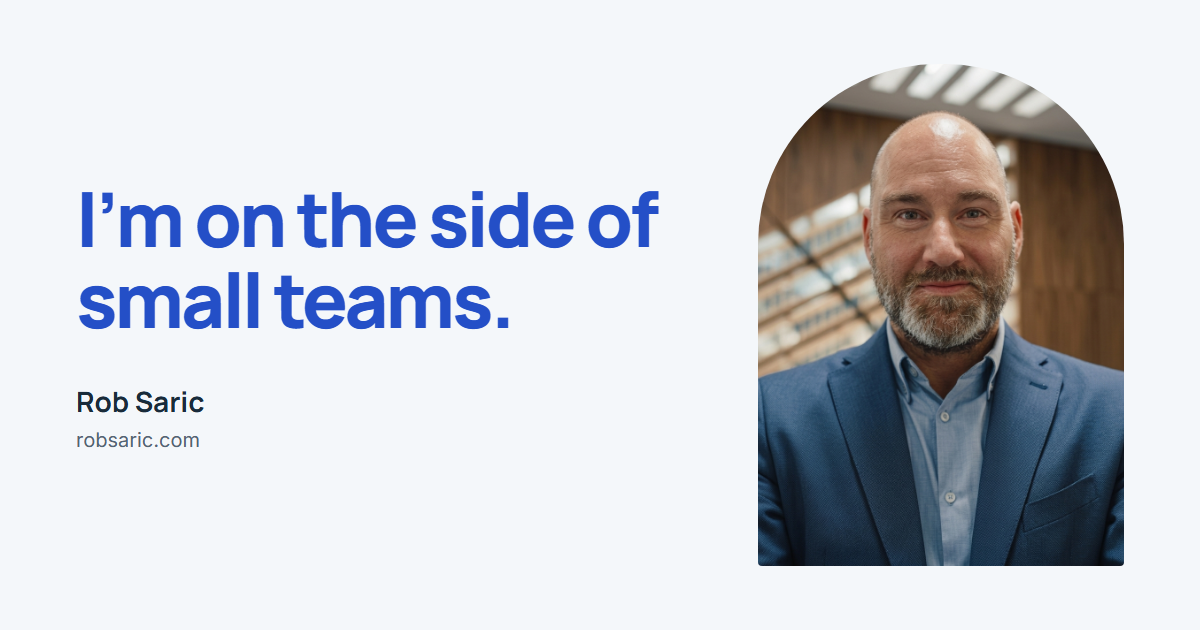
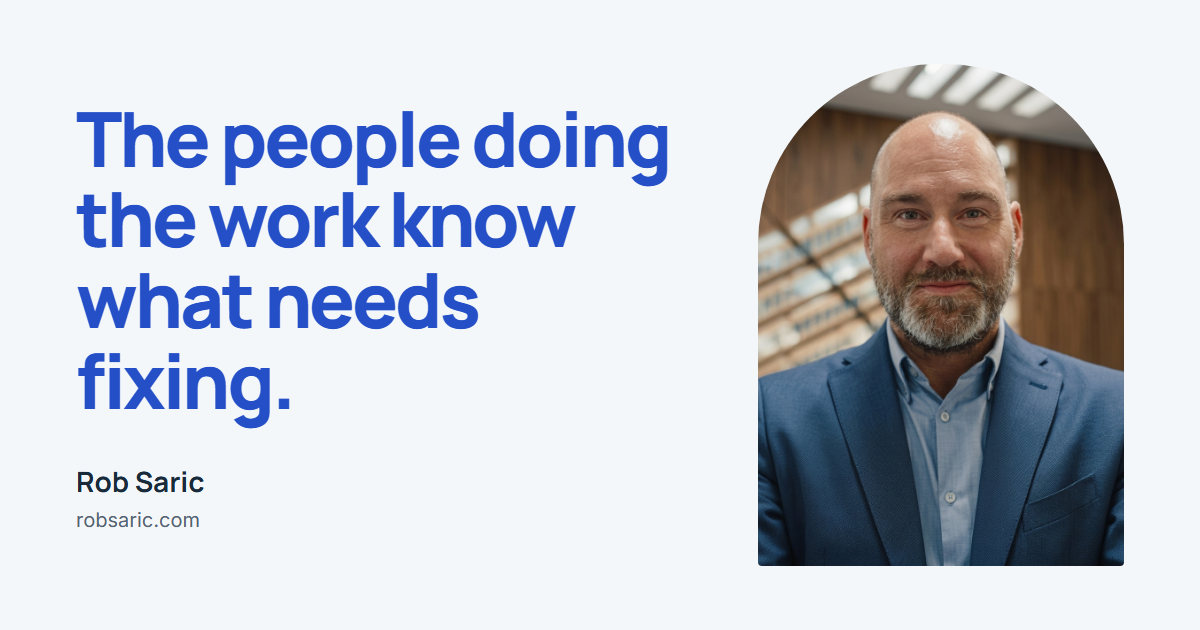
Refine personal-site opening, reading paths, and motion

diff --git a/src/data/editorial.ts b/src/data/editorial.ts
@@ -1,12 +1,11 @@
 /** Approved personal positioning. Article bodies remain in their content collections. */
 export const EDITORIAL = {
   hero: {
-    heading: "I’m on the side of",
-    emphasis: 'small teams.',
-    lead: 'The people doing the work usually know what needs fixing. I build tools that help them do something about it.',
-    intro: 'I’m Rob Saric, a founder in Ottawa. I write about building companies, designing useful tools, and the parts of life we shouldn’t hand over to a screen.',
+    heading: 'The people',
+    emphasis: 'doing the work',
+    ending: 'know what needs fixing.',
+    lead: 'Small teams need tools that help them act on what they know. That’s what I build. But useful technology should also leave room for life, so I write about both: making better tools and knowing when to close the laptop.',
     portraitAlt: 'Rob Saric in a blue blazer',
-    caption: 'Rob Saric · Ottawa, Canada',
     read: 'Read my writing',
     follow: 'Find me on LinkedIn',
   },
@@ -16,8 +15,7 @@ export const EDITORIAL = {
     pageTitle: 'Writing',
     pageHeading: 'Thinking out loud.',
     pageIntro: 'Building companies has given me plenty to write about. So has being a parent, paying attention to design, and wondering what all this technology is doing to us.',
-    latest: 'Recent field notes',
-    latestIntro: 'Small-team tools, attention, and the things I’m learning while building. Each piece starts with a question I care about.',
+    latest: 'Latest writing',
     earlier: 'Earlier writing',
     earlierIntro: 'A few pieces from the archive. Kept as written, with their original dates. I don’t expect every opinion to age perfectly.',
     all: 'All writing',
@@ -96,9 +94,9 @@ export const EDITORIAL = {
     newsletterBody: 'Leave your email for new writing from me.',
   },
   article: {
-    heading: 'More to think about.',
-    followHeading: 'Keep thinking with me.',
-    followBody: 'I share what I’m building and learning on LinkedIn. I’d like to hear what you’re seeing, too.',
+    heading: 'Read next',
+    followHeading: 'More on small teams and useful technology.',
+    followBody: 'I share new writing and what I’m learning as I build on LinkedIn.',
     authorDetail: 'Founder, dad, champion of small teams.',
   },
   contact: {
@@ -119,3 +117,37 @@ export const EARLIER_WRITING = [
   { id: 'treat-contractors-well', summary: 'What client projects taught me about trust and treating contractors as part of the team.' },
   { id: 'great-systems-need-to-create-flow', summary: 'A design question I keep coming back to: how do people find their rhythm in a system?' },
 ] as const;
+
+// Ordered editorial choices. Later choices are used only when an earlier one
+// is unavailable in this build, including when the chosen essay is a draft.
+export const NEXT_READS: Record<string, readonly { href: string; reason: string }[]> = {
+  '/field-notes/2026-10-18-small-teams-deserve-their-time-back/': [
+    { href: '/field-notes/2026-10-18-building-with-ai-and-life-beyond-the-feed/', reason: 'Why giving people time back matters beyond the workday.' },
+    { href: '/archive/treat-contractors-well/', reason: 'Clear handoffs start with how we treat the people doing the work.' },
+  ],
+  '/field-notes/2026-10-18-building-with-ai-and-life-beyond-the-feed/': [
+    { href: '/field-notes/2026-10-18-small-teams-deserve-their-time-back/', reason: 'The same question at work: does the tool give a team its time back?' },
+    { href: '/archive/great-systems-need-to-create-flow/', reason: 'An earlier look at designing for flow, and what makes an experience worth having.' },
+  ],
+  '/field-notes/2026-08-18-unbooked-at-the-desk/': [
+    { href: '/field-notes/2026-08-19-i-took-my-own-number-down/', reason: 'How I decide which numbers belong in public.' },
+  ],
+  '/field-notes/2026-08-19-i-took-my-own-number-down/': [
+    { href: '/field-notes/2026-08-19-i-only-checked-the-widths-i-designed-for/', reason: 'What a number leaves out matters as much as what it shows.' },
+  ],
+  '/field-notes/2026-08-19-i-only-checked-the-widths-i-designed-for/': [
+    { href: '/field-notes/2026-08-18-unbooked-at-the-desk/', reason: 'A concrete example of the work a clean report can miss.' },
+  ],
+  '/archive/building-a-startup-requires-self-awareness/': [
+    { href: '/field-notes/2026-10-18-small-teams-deserve-their-time-back/', reason: 'What I want to build next, and the test it has to pass.' },
+    { href: '/archive/treat-contractors-well/', reason: 'How the way you work with others shapes what you build.' },
+  ],
+  '/archive/treat-contractors-well/': [
+    { href: '/field-notes/2026-10-18-small-teams-deserve-their-time-back/', reason: 'Taking everyday team problems seriously, starting with the handoff.' },
+    { href: '/archive/great-systems-need-to-create-flow/', reason: 'Designing systems around the people who use them.' },
+  ],
+  '/archive/great-systems-need-to-create-flow/': [
+    { href: '/field-notes/2026-10-18-building-with-ai-and-life-beyond-the-feed/', reason: 'A question I’m asking now: when should a useful product let us leave?' },
+    { href: '/archive/building-a-startup-requires-self-awareness/', reason: 'Looking more closely at our own limits as builders.' },
+  ],
+};

diff --git a/src/lib/editorial.ts b/src/lib/editorial.ts
@@ -1,5 +1,5 @@
 import { getCollection } from 'astro:content';
-import { EARLIER_WRITING } from '../data/editorial';
+import { EARLIER_WRITING, NEXT_READS } from '../data/editorial';
 import { getPublishedNotes, noteHref } from './notes';
 
 export interface ReadingItem {
@@ -21,4 +21,17 @@ export async function getRecentWriting(): Promise<ReadingItem[]> {
     title: entry.data.title, summary: entry.data.summary,
     href: noteHref(entry), date: entry.data.date, earlier: false,
   }));
+}
+
+export async function getNextRead(pathname: string): Promise<ReadingItem | undefined> {
+  const choices = NEXT_READS[pathname];
+  if (!choices) return;
+
+  // Resolve against the same visible collections as the index, so curated
+  // links never expose an unpublished essay in an ordinary production build.
+  const available = [...await getRecentWriting(), ...await getEarlierWriting()];
+  for (const choice of choices) {
+    const item = available.find(entry => entry.href === choice.href && entry.href !== pathname);
+    if (item) return { ...item, summary: choice.reason };
+  }
 }

diff --git a/src/styles/global.css b/src/styles/global.css
@@ -10,7 +10,7 @@ p { text-wrap: pretty; }
 .text-link { display: inline-flex; align-items: center; gap: 12px; min-height: 44px; font-weight: 600; text-decoration: none; }
 .text-link:hover { text-decoration: underline; text-underline-offset: 5px; }
 .action { display: inline-flex; justify-content: center; align-items: center; gap: 14px; min-height: 52px; padding: 14px 23px; border: 1px solid var(--blue); border-radius: 6px; background: var(--blue); color: var(--white); text-decoration: none; font-size: 15px; font-weight: 600; transition: background 180ms; }
-.action:hover { color: var(--white); background: var(--blue-deep); }
+.action:hover, .action:focus-visible { color: var(--white); background: var(--blue-deep); }
 .action--outline { color: var(--blue); background: transparent; }
 .action--outline:hover { color: var(--blue); background: var(--sky); }
 .section-title { margin: 0; font-size: var(--text-h2); }

diff --git a/src/data/site.ts b/src/data/site.ts
@@ -5,7 +5,7 @@
  */
 export const SITE = {
   name: 'Rob Saric',
-  title: 'Rob Saric · On the side of small teams',
+  title: 'Rob Saric · For the people doing the work',
   description:
     'Rob Saric on building useful tools for small teams, starting companies, and making room for life beyond the screen. Founder and dad in Ottawa.',
   url: 'https://robsaric.com',

diff --git a/DESIGN.md b/DESIGN.md
@@ -168,7 +168,7 @@ The functional `status-critical-text` color is reserved for the conditional news
 Both families are self-hosted through Astro's font build. Manrope supplies compact, geometric headings; Inter keeps paragraphs, controls, and dates quiet. The scale is role-based and fluid rather than a single mathematical ratio.
 
 ### Hierarchy
-- **Display:** the frontmatter's largest role is the home statement. Its short measure (12ch on desktop) creates an emphatic, readable composition; the blue emphasis occupies its own line.
+- **Display:** the longer home statement uses `clamp(3rem, 5.2vw, 4.5rem)` within an 18ch measure and a 1.08 line height. Mobile uses `clamp(2.5rem, 9.8vw, 4.5rem)`. The blue phrase stays inline so the sentence wraps naturally. One lead paragraph supports it; there is no separate biography tier or portrait caption.
 - **Headline:** recurring section headings use the fluid headline role. Balancing is applied to headings, with reading-section headings allowed to wrap naturally.
 - **Title:** writing-list titles use the title role; compact entries use a slightly smaller size (24px), then (23px) on mobile.
 - **Article title:** the separate article-title role fits long titles without forcing the home's short measure. Mobile articles use `clamp(2.1rem, 7.7vw, 3rem)`.
@@ -191,7 +191,7 @@ Mobile stacks the source reading order into one column. Main sections commonly u
 
 Writing rows have a date column (154px), a gap (32px), and a flexible text column. Compact and mobile rows place the date above the title. They retain rules and generous vertical breathing room rather than turning into tiles.
 
-The article shell narrows to (1040px), with an author column (160px), a gap (64px), and a reading column capped at (720px). At (1023px) and below the author rail disappears and the reading column centers. The article follow invitation and related reading remain in the document flow.
+The article shell narrows to (1040px), with an author column (160px), a gap (64px), and a reading column capped at (720px). The ending shares this grid, keeping its divider, follow invitation and single next read aligned with the prose. At (1023px) and below the author rail disappears and both the prose and ending center.
 
 **The Open Structure Rule.** Use aligned text and thin rules for repeated writing and project entries. Reserve sky panels for a deliberately featured idea or invitation.
 
@@ -218,7 +218,7 @@ Rules are a single thin stroke (1px). Link arrows are inline SVG strokes, with a
 
 Direct and easy to identify. The primary action uses blue with white text, a medium corner, an internal gap (14px), and a minimum height (52px). Its hover deepens the blue over (180ms). Keyboard focus uses the shared visible outline (2px), offset (2px).
 
-The lighter text action is an inline link with a minimum target height (44px), a gap (12px), and an underline on hover, offset (5px). The inline SVG arrow can point forward or diagonally. Preserve both treatments; the outline action class retained in the stylesheet is not an observed public-page primitive.
+The lighter text action is an inline link with a minimum target height (44px), a gap (12px), and an underline on hover, offset (5px). The inline SVG arrow can point forward or diagonally. On hover-capable devices it moves 2–3px in its direction over 200ms with the existing ease-out curve. Keyboard focus gets the same feedback; reduced motion keeps its position fixed. Primary-action focus also deepens the background while retaining the visible outline. Footer navigation links have a minimum width as well as height of 44px. The outline action class retained in the stylesheet is not an observed public-page primitive.
 
 ### Navigation
 
@@ -246,7 +246,7 @@ Without JavaScript, all process text remains visible in order and inactive contr
 
 ### Follow invitation and conditional email field
 
-The follow invitation uses a sky section or panel, an explicit primary link, and a quieter contact link. A newsletter field renders only when its endpoint is configured.
+The standalone follow invitation uses a sky section, an explicit primary link, and a quieter contact link. A newsletter field renders only when its endpoint is configured. Within articles, the invitation stays on paper after a thin divider: a 24px heading (23px on mobile), short supporting text, and a LinkedIn text link. One curated next read follows when selected; there is no generic recommendation fallback.
 
 The email field is white with an ink-muted border, a medium corner, a visible label, and a height (52px). It receives the common blue focus outline. Invalid state uses the functional red border plus a readable status message; the status region reserves height (20px). A submitting button becomes disabled with opacity (0.7) and a wait cursor. The design specimen does not submit to a service.
 

diff --git a/docs/REDESIGN-HANDOFF.md b/docs/REDESIGN-HANDOFF.md
@@ -1,10 +1,12 @@
 # Personal-site redesign handoff
 
-Prepared 2026-10-18 for Rob Saric. Repository: `robsaric/robsaric.com`. Branch: `codex/personal-site-redesign`. Base: `ca034cfd010467db249e072ecc9cda1a43e2166d`.
+Prepared 2026-10-18; refined 2026-10-19 for Rob Saric. Repository: `robsaric/robsaric.com`. Branch: `codex/personal-site-redesign`. Base: `ca034cfd010467db249e072ecc9cda1a43e2166d`.
 
 ## Result
 
-The site now leads with “I’m on the side of small teams.” Rob's perspective connects useful tools, building companies, design, and life beyond the screen. Togetheren is the intended home for SkillNav, visibly in development. Caretrics is one example of the work. LinkedIn is easy to find in the introduction, navigation, articles, and closing invitation.
+The site now leads with “The people doing the work know what needs fixing.” Rob approved this replacement opening on 2026-10-19, with “doing the work” in blue, one supporting paragraph, and no separate biography tier or portrait caption. Rob's perspective connects useful tools, building companies, design, and life beyond the screen. Togetheren is the intended home for SkillNav, visibly in development. Caretrics is one example of the work. LinkedIn is easy to find in the introduction, navigation, articles, and closing invitation.
+
+The October 19 refinement also names the current section “Latest writing,” removes its repeated introduction, aligns article endings with the prose, replaces the large follow panel with a quiet invitation, and selects one relevant next read with a reason. Articles without a deliberate match omit recommendations. Arrow feedback on hover and keyboard focus respects reduced motion; the existing working sketch remains the focal interaction. RSS now has a 44px-wide target. Social sharing uses the new opening too.
 
 The blue, paper, ink, and yellow system pairs self-hosted Manrope headlines with Inter prose. Existing solo photographs carry the personal identity. A three-step working sketch adds finite, purposeful motion; readers can use it by keyboard, with reduced motion, or without JavaScript. The writing index shows actual titles, summaries, and dates, including wider selections from the archive. Mobile keeps those selections visible.
 
@@ -34,6 +36,18 @@ Only explicit `editorial-review` mode includes these drafts, with a visible revi
 No dependencies, package version, lockfile, backend newsletter handler, tracking service, or legacy redirect mapping changed.
 
 ## Validation
+
+### October 19 refinement validation
+
+- Final `corepack pnpm@10.27.0 gate`: passed after the sharing-image update. Astro: zero errors; copy lint: zero errors and the same three existing taste warnings. Content: 11 notes. Redirects: 112 URLs with zero misses. Responsive gate: 77 checks across 11 routes and seven widths.
+- Explicit editorial-review build: passed. Visually inspected homepage and article endings at 1440, 900 and 390px, plus the mobile writing index and 1200x630 social image. Nine page/viewport probes passed: no overflow, one H1, images loaded, RSS targets 44x44px, and article endings aligned with prose within one pixel.
+- Browser interaction checks: 3px hover feedback, keyboard focus with a visible outline, stationary arrows under reduced motion, and all three sketch panels available without JavaScript. No loading sequence or new client script was introduced.
+- Generated-output check: all 49 production HTML pages and 51 review HTML pages inspected. Six production and eight review next-read links resolve, none point to themselves, production contains no links to the two draft essays, and both RSS feeds exclude drafts. Unselected articles omit the related section instead of showing an empty state or arbitrary fallback.
+- Share card regenerated and inspected. `git diff --check` passed. No content-entry, dependency or lockfile changes.
+- Evidence is local in `.impeccable/review/refinements/`. The Impeccable launcher remains unavailable; the checks above used the repository tools and rendered browser evidence.
+- Both requested pages were opened in the default browser. Review the opening, hover or tab through its reading link, then read to the post's final sentence and follow invitation. No deployment or public posting occurred.
+
+### Original redesign validation
 
 Node 22.18.0; pnpm 10.27.0. Dependencies installed with the frozen lockfile. In this sandbox, commands used the pinned `corepack pnpm@10.27.0` executable with automatic package-manager pinning disabled; plain `pnpm` otherwise attempted a registry lookup.
 

diff --git a/docs/personal-site-direction.md b/docs/personal-site-direction.md
@@ -12,6 +12,16 @@ Date: 2026-10-18. Supersedes the old Caretrics palette and clinic-only framing f
 - Content boundaries: use original archive text with years visible; keep the clinic evidence exact; unpublished stories remain drafts. The two proposed October 18 essays carry draft: true. Only the explicit editorial-review build includes them, with a visible review notice and noindex; ordinary builds and RSS exclude them. SkillNav is in development. No invented anecdotes, product claims or Unplugged Canada affiliation.
 - Audience path: recognize a shared concern, read something worthwhile, follow on LinkedIn or write to Rob. No forced email capture.
 
+## Confirmed refinements, 2026-10-19
+
+Rob approved replacing the homepage opening with “The people doing the work know what needs fixing.” The blue emphasis is “doing the work.” One supporting paragraph connects small-team tools with making room for life and the reason to read. The separate biography tier and portrait caption are removed; About retains the biography.
+
+The writing index uses “Latest writing” and removes its repeated section introduction. Article endings preserve the final sentence, then offer a quiet LinkedIn invitation and one curated next read with a reason for the connection. Recommendations resolve against the visible content collections, including production draft exclusions. An article without a deliberate selection has no generic recommendation list.
+
+The working sketch remains the motion focal point. Shared link arrows move 2–3px in their direction on hover or keyboard focus over 200ms, using the existing ease-out curve; touch does not depend on hover. Reduced motion keeps the arrows stationary. No text entrance, page-load delay, loop, dependency or new script is added.
+
+Visuals should clarify an idea: diagrams and actual artifacts first, with occasional directed AI-assisted illustration. An image is optional. Cause and effect should connect the writing's observations, complications and implications, without forcing “but” into every paragraph or inventing conflict. These decisions are recorded in CAR-1171.
+
 ## Assets
 Existing repository assets: rob-portrait.jpg (unbranded solo portrait), rob-hiking.jpg (solo outdoors). Source files are preserved; crops use CSS/Astro. Family images excluded from the redesign. No new image generation or external photography.
 

diff --git a/docs/AUDIENCE-AND-PUBLISHING.md b/docs/AUDIENCE-AND-PUBLISHING.md
@@ -22,6 +22,14 @@ The second essay links to the official [Unplugged Canada website](https://www.un
 
 Use real artifacts when there is permission to show them. Keep client material anonymous unless approved. Parenting can inform the position without exposing the children.
 
+## Reading and returning
+
+Keep each essay focused on an observation, the complication it exposes, and what follows from it. The [But & Therefore rule](https://perell.com/note/but-therefore-rule/) is a useful editing test for cause and effect, not a sentence template. Preserve Rob's uncertainty and specific examples. Do not manufacture an anecdote or dispute to create an arc.
+
+Let the final sentence finish the essay. After a quiet divider, invite readers to follow the ongoing thinking on LinkedIn, then offer one relevant next article with a short reason. The selections live in `NEXT_READS` in `src/data/editorial.ts`. They resolve only against content available in the current build; a draft never becomes a production link. Leave the recommendation absent when there is no deliberate match. Add a reader question only where it is substantive and has a real reply path.
+
+Use diagrams, annotated sketches and actual artifacts when they make the idea easier to understand. Occasional AI-assisted editorial illustration is appropriate with a specific concept and deliberate art direction. Preserve provenance; never present a generated scene as evidence of a real family, customer or event. Short text-only essays remain a valid choice.
+
 ## A workable publishing rhythm
 
 Start with one substantial website note every two weeks and one or two LinkedIn posts each week. This is a proposed workload, not an algorithm claim. The website holds the fuller thinking; a LinkedIn post should contain a complete useful thought on its own.
